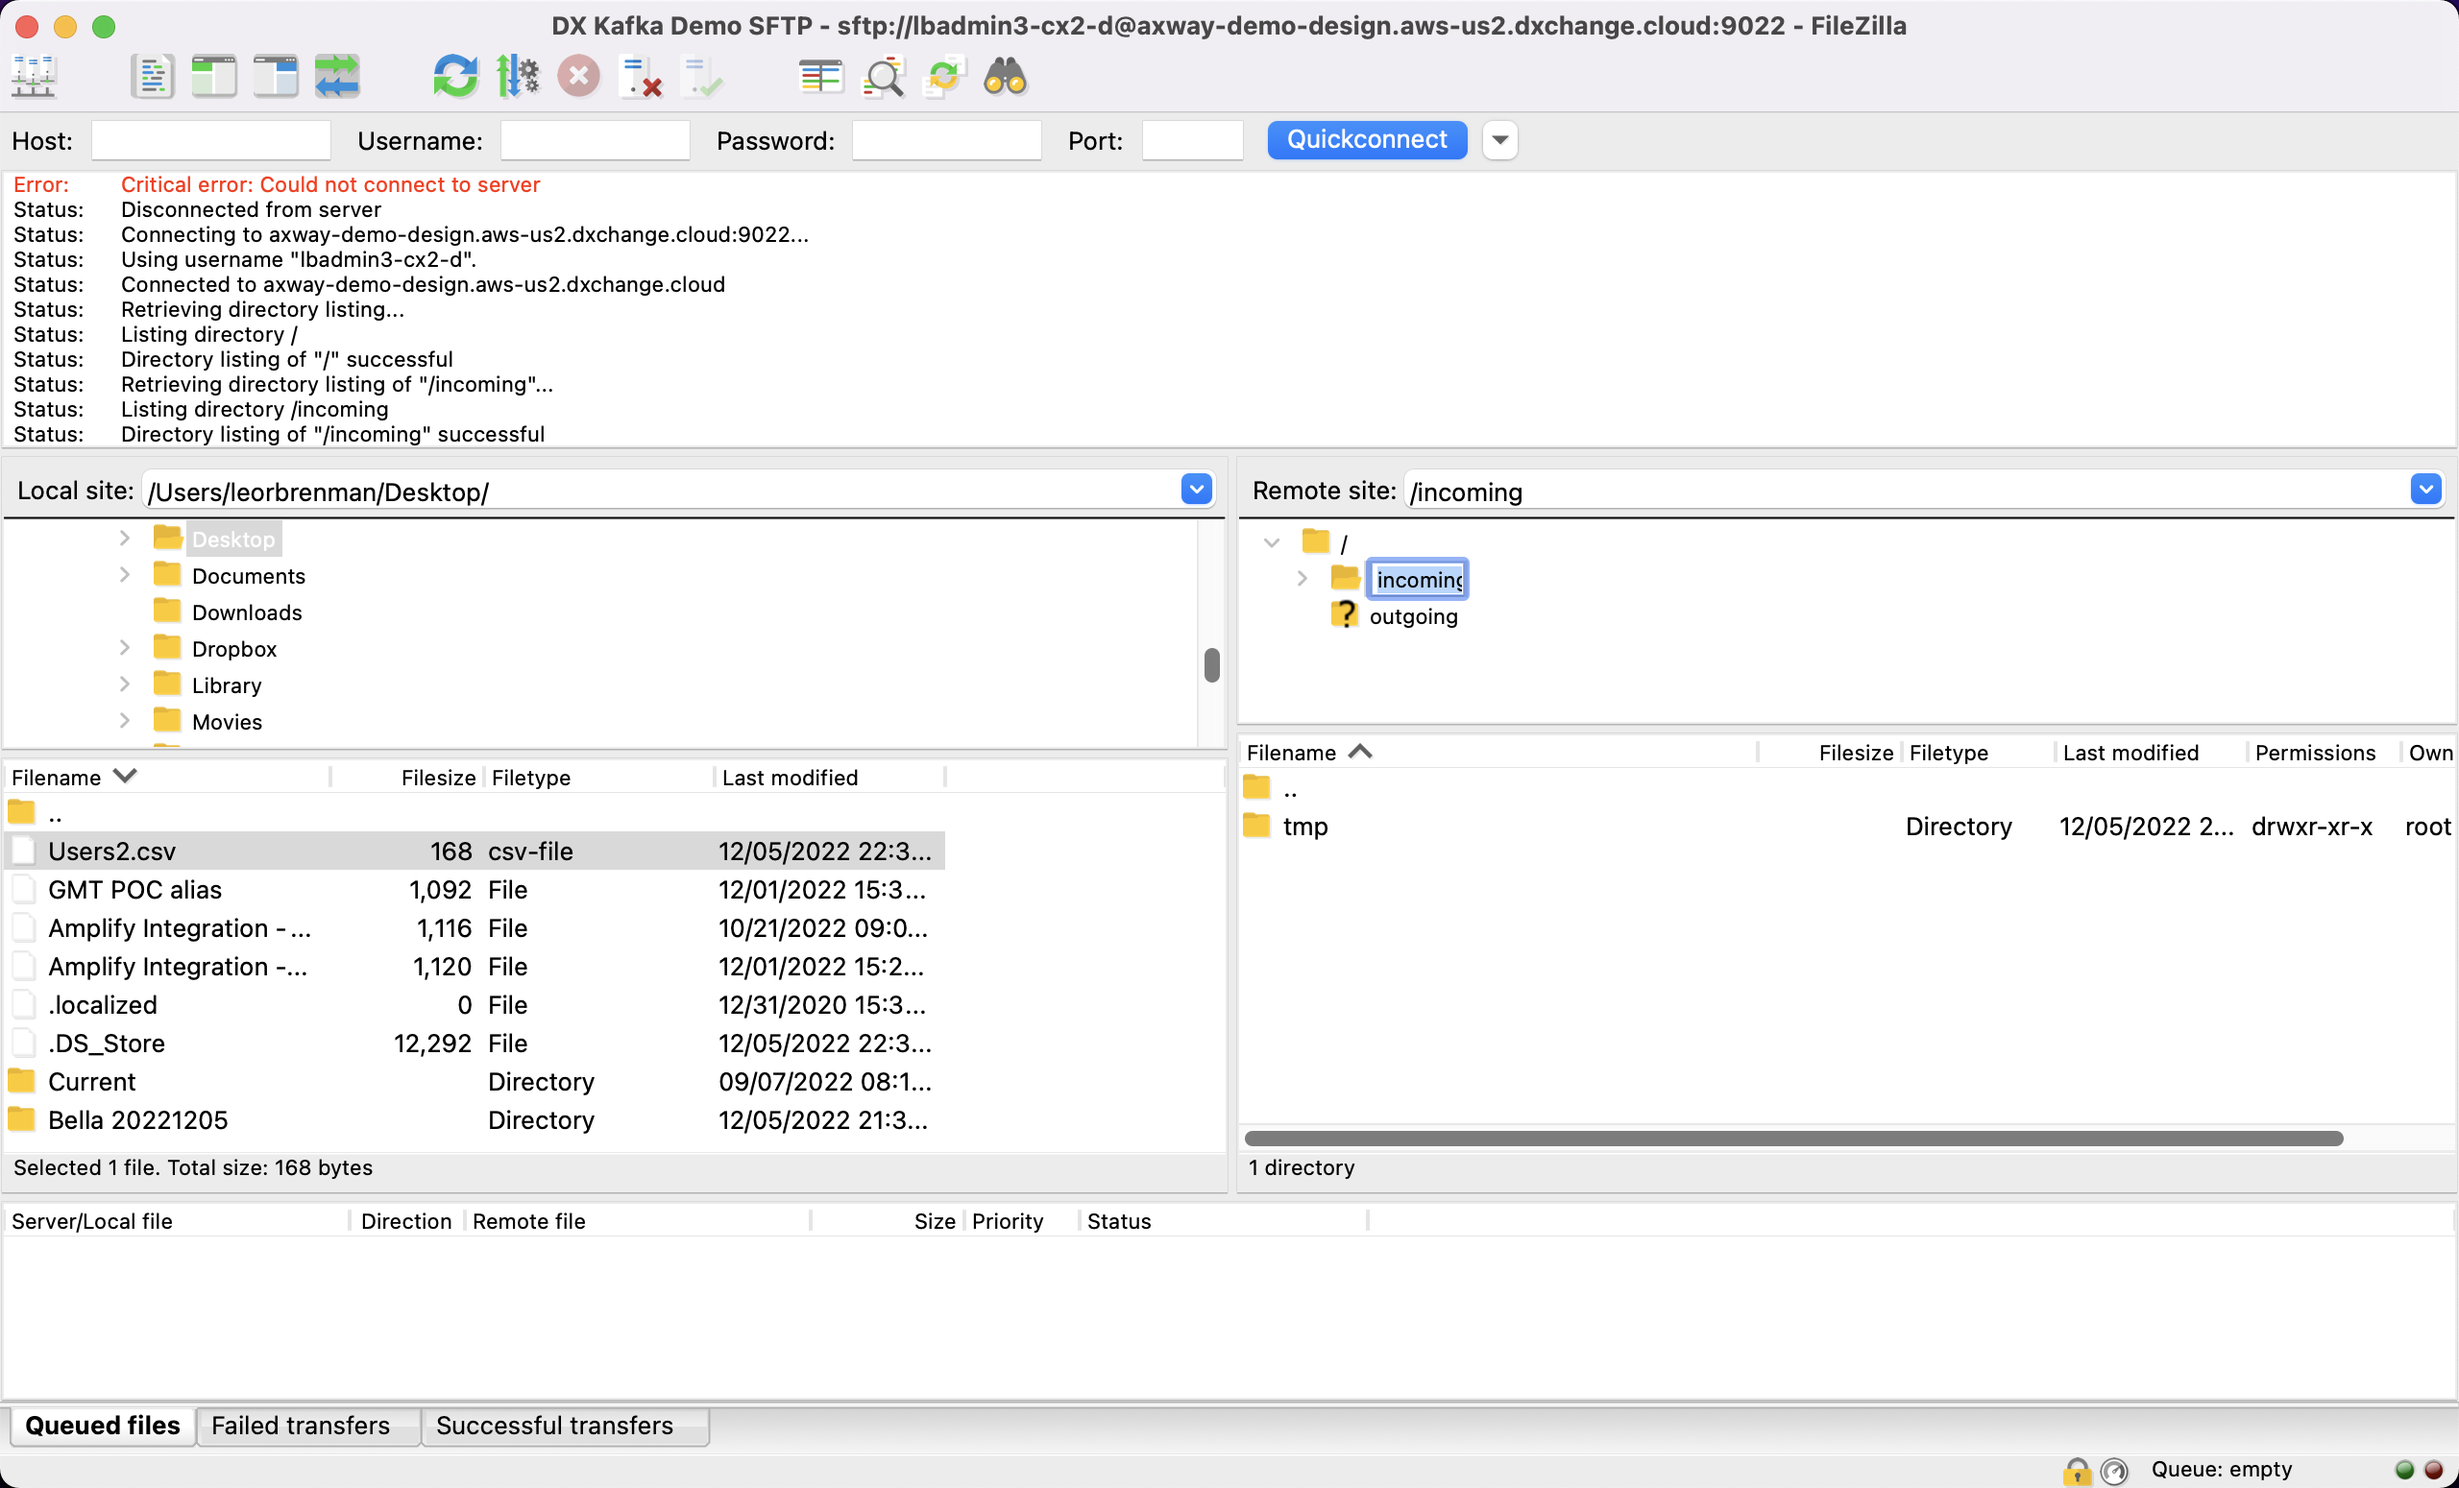
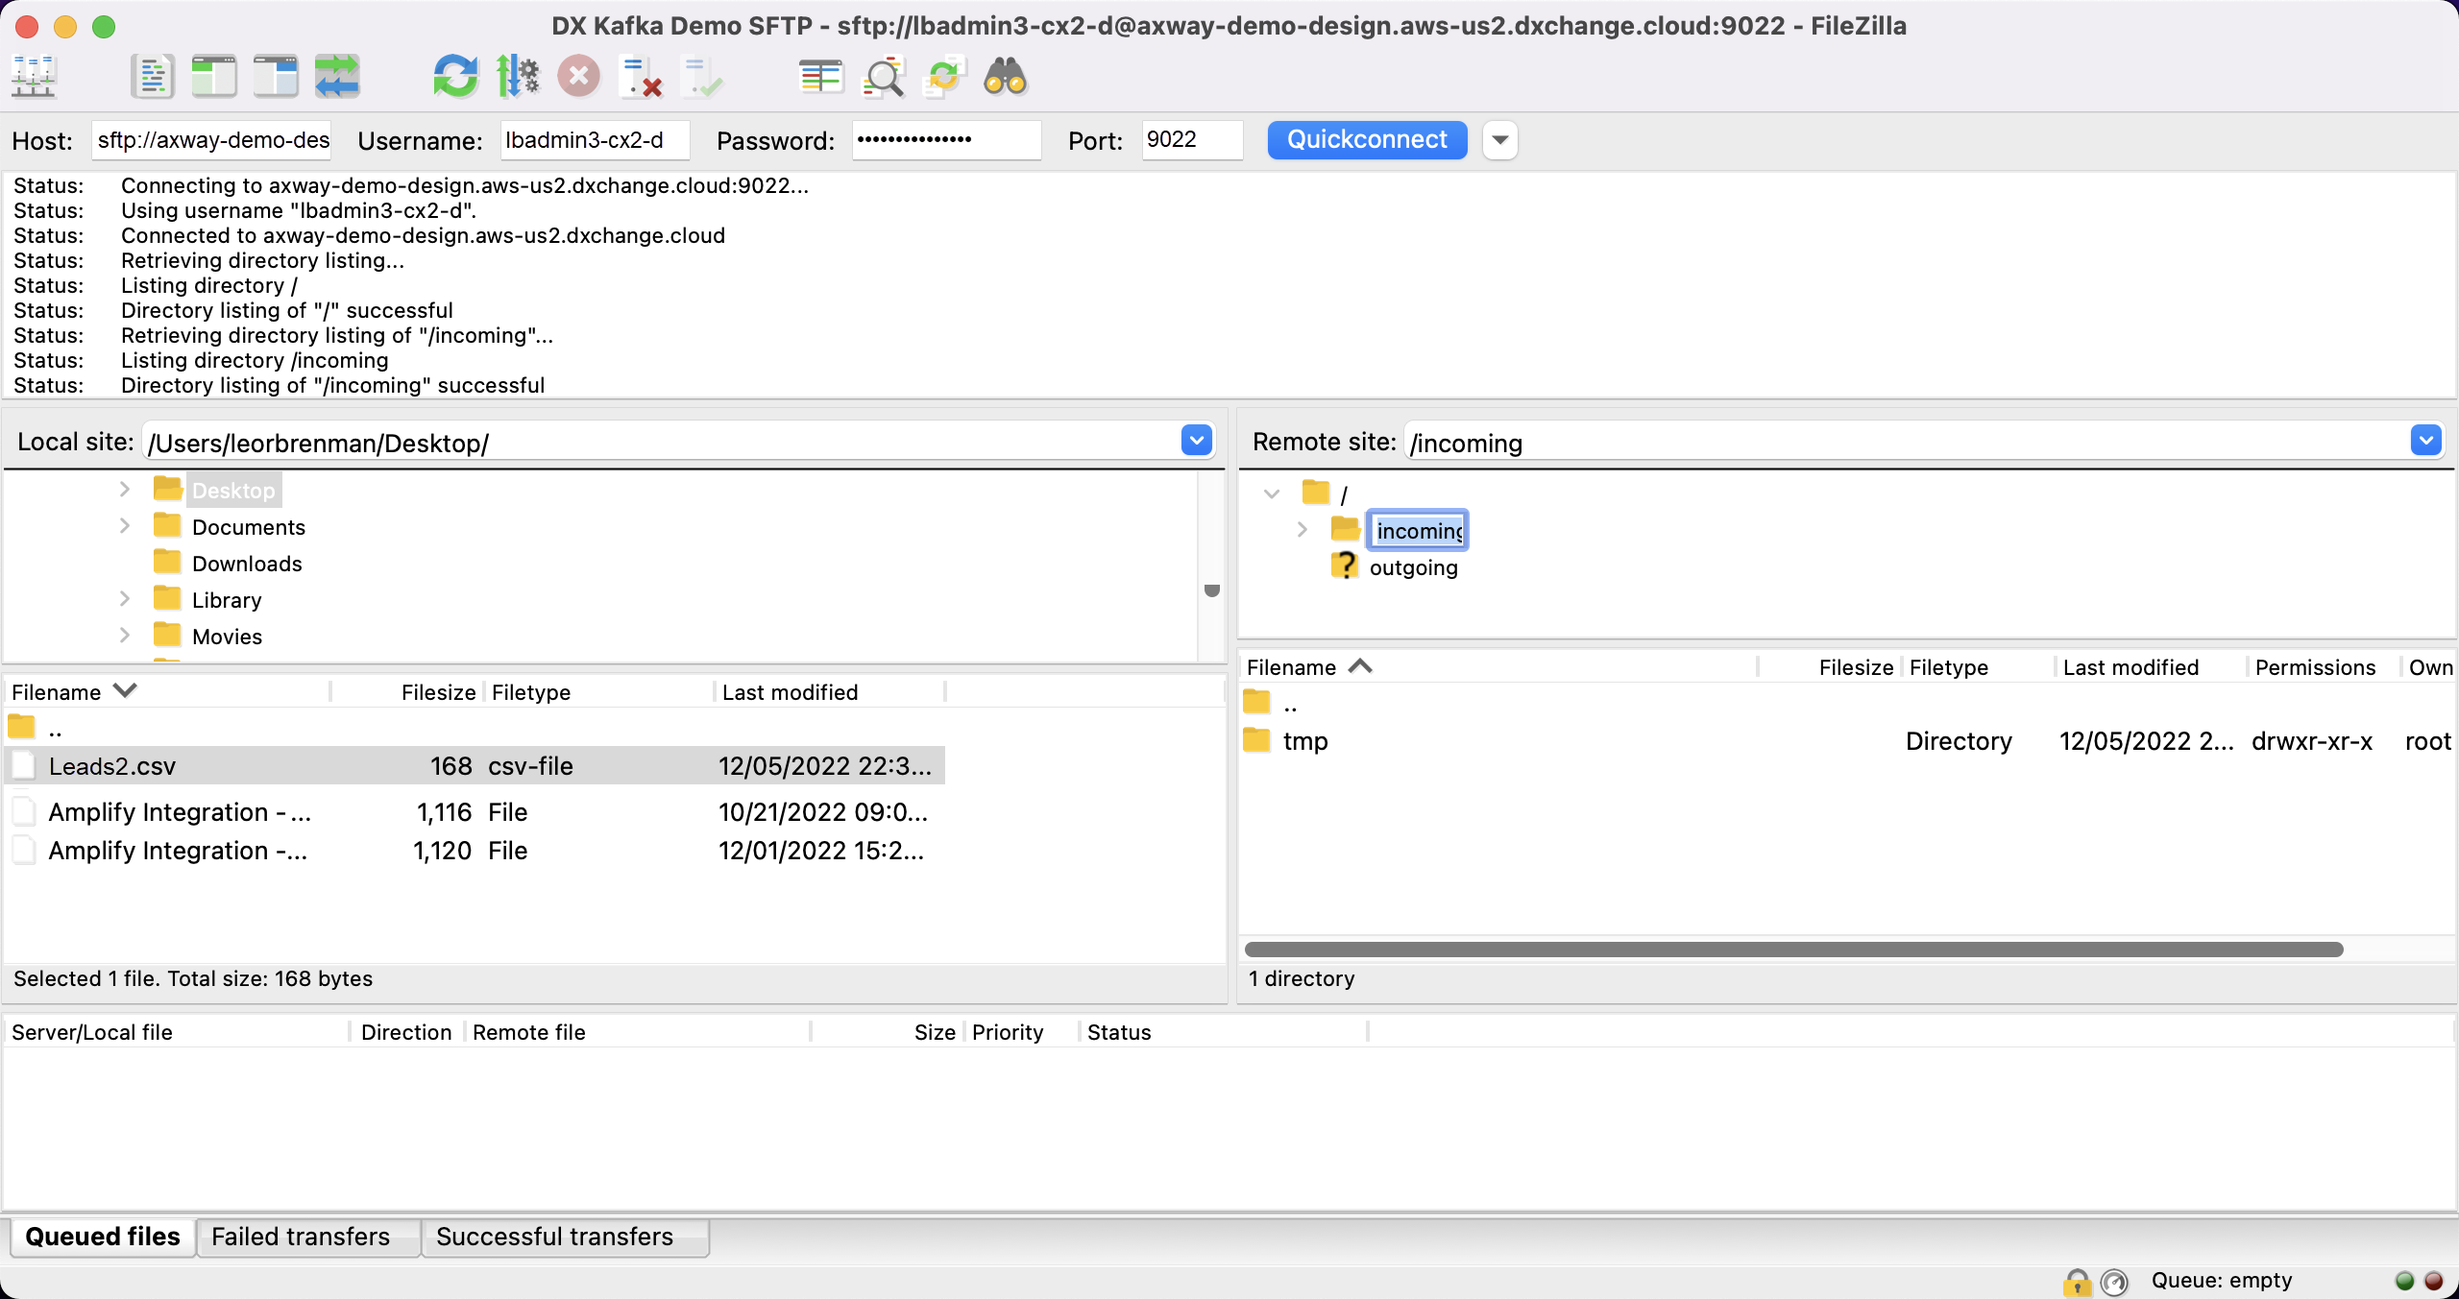
learner feedback

diff --git a/file-integration/assets/salesforce-connection.md b/file-integration/assets/salesforce-connection.md
@@ -48,7 +48,7 @@
 
 - Save all settings and then click Continue.
 
-- Save the Consumer Key (Client ID) and Consumer Secret (Client Secret) displayed after clicking Continue.
+- Click on Manage Consumer Details button, and save the Consumer Key (Client ID) and Consumer Secret (Client Secret).
   ![salesforce12](salesforce-connection/salesforce12.png)
 
 - These above details must be used when creating your Salesforce connection on Amplify Integration
@@ -74,9 +74,10 @@
 - Base URL (Required) --
 
   - Subdomain -- You can get your domain by clicking on the Avatar on the top right corner of Salesforce application
-
-  - Version -- 46.0, 52.0 etc
     ![salesforce17](salesforce-connection/salesforce17.png)
+
+  - Version -- 46.0, 57.0 etc.  You can get the API version by creating a new Apex class: from the Setup Menu, search Apex Classes, click New, go on Version Settings, writte down the default Salesforce.com API version, then Cancel.
+    ![salesforce17b](salesforce-connection/salesforce17b.png)
 
   - Replace your subdomain and version in the below URL
     `https://{subdomain}.my.salesforce.com/services/data/v{version}`

diff --git a/file-integration/README.md b/file-integration/README.md
@@ -63,7 +63,7 @@ Now, let's test the integration.
 
 * Enable the integration by clicking on the toggle switch next to the Test button
 * Download the file leads.csv from [**here**](assets/leads.csv)
-* Launch your FTP client (e.g. FileZilla) and create a connection to the SFTP Server using the credentials from the Connection and connect to the SFTP server. Select the `/incoming` folder to upload to (as this will trigger your integration)
+* Launch your FTP client (e.g. FileZilla) and create a connection to the SFTP Server using the credentials from the Connection and connect to the SFTP server (if using FileZilla, make sure to prefix the host by `sftp://`). Select the `/incoming` folder to upload to (as this will trigger your integration)
   ![filezilla connection](images/lab1-filezilla-connection.png)
 * Upload leads.csv to the `/incoming` folder which will trigger your integration
 * Go to the Monitor
